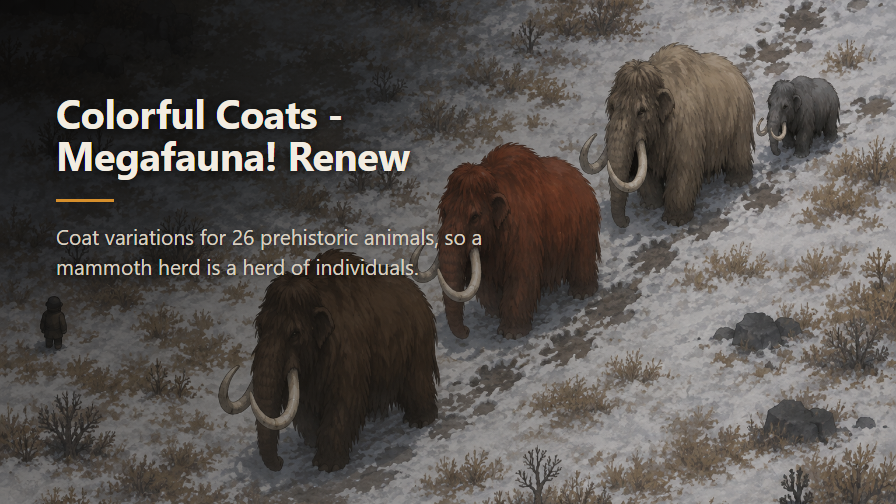
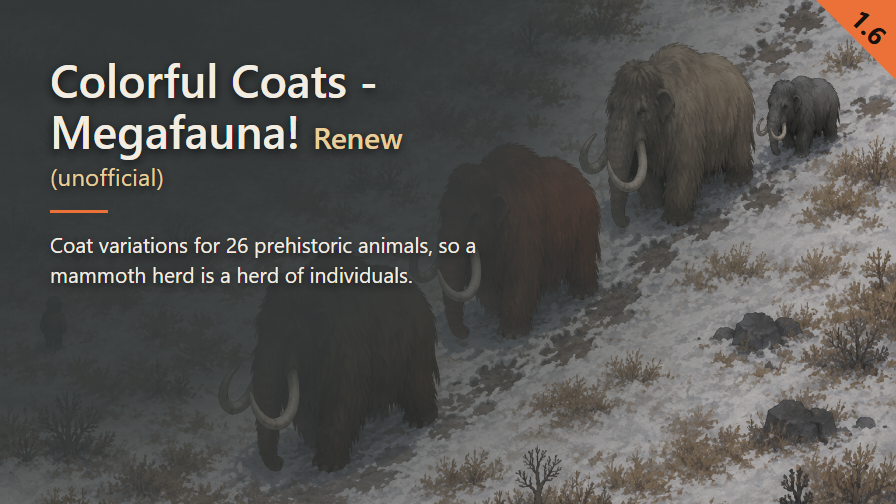
Refresh preview overlay with unofficial tag and version badge

diff --git a/Art/preview.html b/Art/preview.html
@@ -1,52 +1,40 @@
-<!doctype html><meta charset="utf-8">
-<!--
-  Engraving page for Mod/About/Preview.png, per STYLE_RIMWORLD.md.
-
-  Rasterised with headless Chrome at 896x504, so the glyphs are composed at final size and never
-  resampled. The background is Preview-source.png at full resolution, scaled and cropped here
-  rather than beforehand: starting from an already-reduced Preview.png would resample the picture
-  twice.
-
-    chrome --headless --disable-gpu --screenshot=Mod/About/Preview.png \
-           --window-size=896,504 --hide-scrollbars Art/preview.html
-
-  The source is 1536x1024, which is 3:2, so 160 source pixels of height have to go. The crop is
-  centred: taking it all off the bottom would cut the feet of the nearest mammoth, and taking it
-  all off the top would eat the dark corner the title sits in.
-
-  The count is engraved: 26 animals is a number that cannot move. The source mod stopped at 1.4
-  and the patch names its 26 defNames one by one, so nothing outside this repository can change
-  it. See the rule in STYLE_RIMWORLD.md.
--->
+<!doctype html><html lang="en"><head><meta charset="utf-8"><title>Colorful Coats - Megafauna! Renew</title>
 <style>
-  * { margin:0; padding:0; box-sizing:border-box; }
-  html,body { width:896px; height:504px; overflow:hidden; background:#000; }
-  .stage { position:relative; width:896px; height:504px;
-           font-family:"Segoe UI",system-ui,sans-serif; }
-
-  /* Centred crop, see above. The herd walks from the lower left to the upper right, so the
-     diagonal survives either way; what does not survive is losing the feet. */
-  .shot { position:absolute; inset:0; width:896px; height:504px;
-          object-fit:cover; object-position:50% 50%; }
-
-  /* Repository standard: radial darkening from the top-left, nil at 74%. It lands on the bare
-     snow and the dark rocks above the settler, which is the calmest corner of the picture and
-     the one the prompt reserved. */
-  .veil { position:absolute; inset:0;
-    background: radial-gradient(circle at 0% 0%, rgba(6,5,4,.86) 0%, rgba(6,5,4,0) 74%); }
-
-  .text { position:absolute; left:56px; top:92px; width:430px; }
-  h1 { font-size:40px; line-height:1.06; font-weight:700; color:#f2ece1;
-       letter-spacing:-.5px; text-shadow:0 2px 10px rgba(0,0,0,.7); }
-  .rule { width:58px; height:3px; background:#D68F2C; margin:22px 0 20px; }
-  p { font-size:21px; line-height:1.42; color:#d8cfc0; text-shadow:0 1px 6px rgba(0,0,0,.75); }
-</style>
-<div class="stage">
-  <img class="shot" src="Preview-source.png">
-  <div class="veil"></div>
-  <div class="text">
-    <h1>Colorful Coats -<br>Megafauna! Renew</h1>
-    <div class="rule"></div>
-    <p>Coat variations for 26 prehistoric animals, so a mammoth herd is a herd of individuals.</p>
-  </div>
-</div>
+* { margin:0; padding:0; box-sizing:border-box; }
+html,body,.stage { width:896px; height:504px; overflow:hidden; }
+.stage { position:relative; font-family:"Segoe UI",system-ui,sans-serif; color:var(--inkPrimary); }
+.shot { position:absolute; inset:0; width:896px; height:504px; object-fit:cover; object-position:50% 50%; }
+/* Extended opacity protects the summary from bright snow. Palette comes only from JSON. */
+.veil { position:absolute; inset:0; background:radial-gradient(ellipse 900px 680px at top left,rgb(var(--veilRGB) / .94) 0%,rgb(var(--veilRGB) / .90) 60%,rgb(var(--veilRGB) / 0) 100%); }
+.text { position:absolute; left:50px; top:54px; width:460px; text-shadow:0 3px 10px rgb(0 0 0 / .75); }
+h1 { font-size:46px; line-height:1.1; font-weight:600; letter-spacing:0; }
+h1 .suffix { font-size:.65em; color:var(--inkSecondary); white-space:nowrap; }
+.tag { font-size:24px; font-weight:400; line-height:1.1; letter-spacing:.2px; margin-top:8px; color:var(--inkSecondary); }
+.rule { width:58px; height:3px; background:var(--accent); margin:20px 0 16px; }
+.summary { width:430px; font-size:21px; font-weight:400; line-height:1.45; }
+.badge { position:absolute; right:0; top:0; width:80px; height:80px; background:var(--accent); clip-path:polygon(0 0,100% 0,100% 100%); }
+.version { position:absolute; left:869px; top:27px; transform:translate(-50%,-50%) rotate(45deg); font-size:26px; font-weight:700; line-height:1; color:var(--badgeInk); }
+.background-only .text,.background-only .version { visibility:hidden; }
+</style></head><body><main class="stage">
+<img class="shot" src="Preview.png" alt="Mammoths with different coats crossing snowy ground"><div class="veil"></div>
+<section class="text"><h1><span id="title-first">Colorful Coats -</span><br><span id="title-second">Megafauna!</span> <span class="suffix" id="suffix">Renew</span></h1>
+<p class="tag" id="tag"></p><div class="rule"></div>
+<p class="summary" id="summary">Coat variations for 26 prehistoric animals, so a mammoth herd is a herd of individuals.</p></section>
+<div class="badge"></div><span class="version" id="version"></span></main>
+<script>
+window.previewReady = (async () => {
+ const [palette, aboutText, status] = await Promise.all([fetch('preview-palette.json').then(r=>r.json()),fetch('../Mod/About/About.xml').then(r=>r.text()),fetch('../STATUS.md').then(r=>r.text())]);
+ for(const [key,value] of Object.entries(palette)) document.documentElement.style.setProperty('--'+key,value);
+ document.documentElement.style.setProperty('--veilRGB',palette.veil.slice(1).match(/../g).map(v=>parseInt(v,16)).join(' '));
+ const about=new DOMParser().parseFromString(aboutText,'application/xml');
+ const versions=[...about.querySelectorAll('supportedVersions > li')].map(n=>n.textContent.trim()).filter(v=>/^\d+\.\d+$/.test(v));
+ versions.sort((a,b)=>{const x=a.split('.').map(Number),y=b.split('.').map(Number);return y[0]-x[0]||y[1]-x[1];});
+ if(!versions.length) throw new Error('No stable supported version');
+ document.querySelector('#version').textContent=versions[0];
+ const tag=document.querySelector('#tag');
+ tag.textContent=/^visibility:\s*private\s*$/m.test(status)?'(prohibited)':/\(unofficial\)/.test(about.querySelector('name').textContent)?'(unofficial)':'';
+ if(!tag.textContent) tag.remove();
+ await document.fonts.ready; await document.querySelector('.shot').decode();
+ return {palette,version:versions[0],tag:tag.textContent};
+})();
+</script></body></html>

diff --git a/README.md b/README.md
@@ -1,4 +1,6 @@
-# Colorful Coats - Megafauna! Renew
+# Colorful Coats - Megafauna! Renew (unofficial)
+
+UNOFFICIAL. This mod is published without the original author's explicit consent. If the original author contacts me to request its removal, I undertake to take it down promptly.
 
 Port of **purpleyam's Colorful Coats - Megafauna!** to RimWorld 1.6.
 
